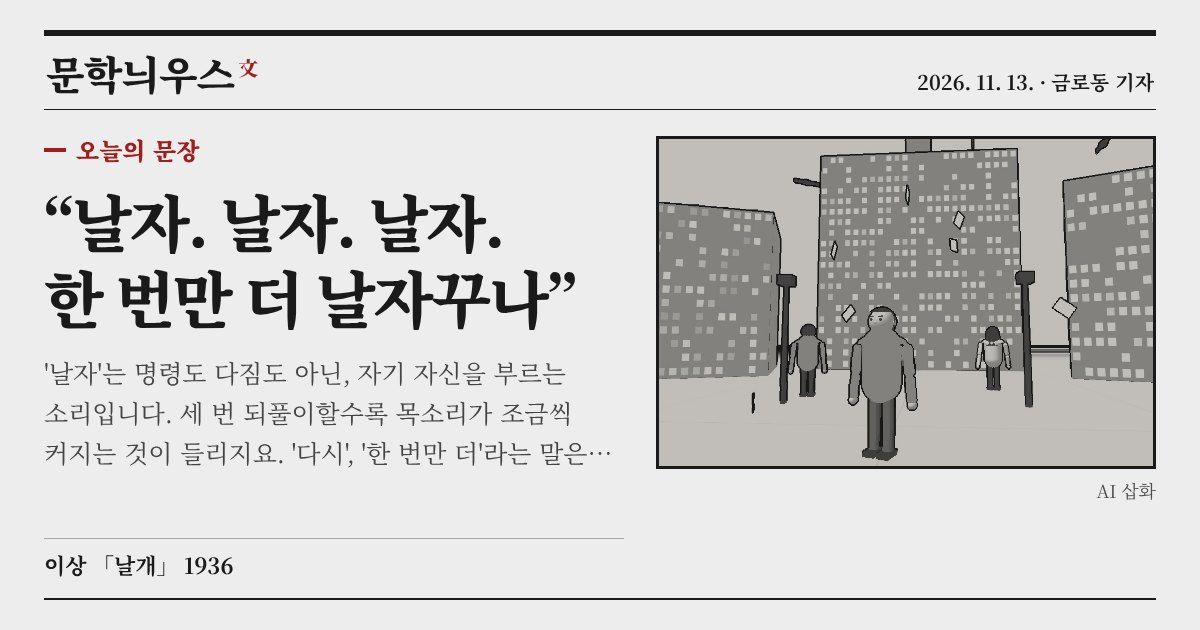
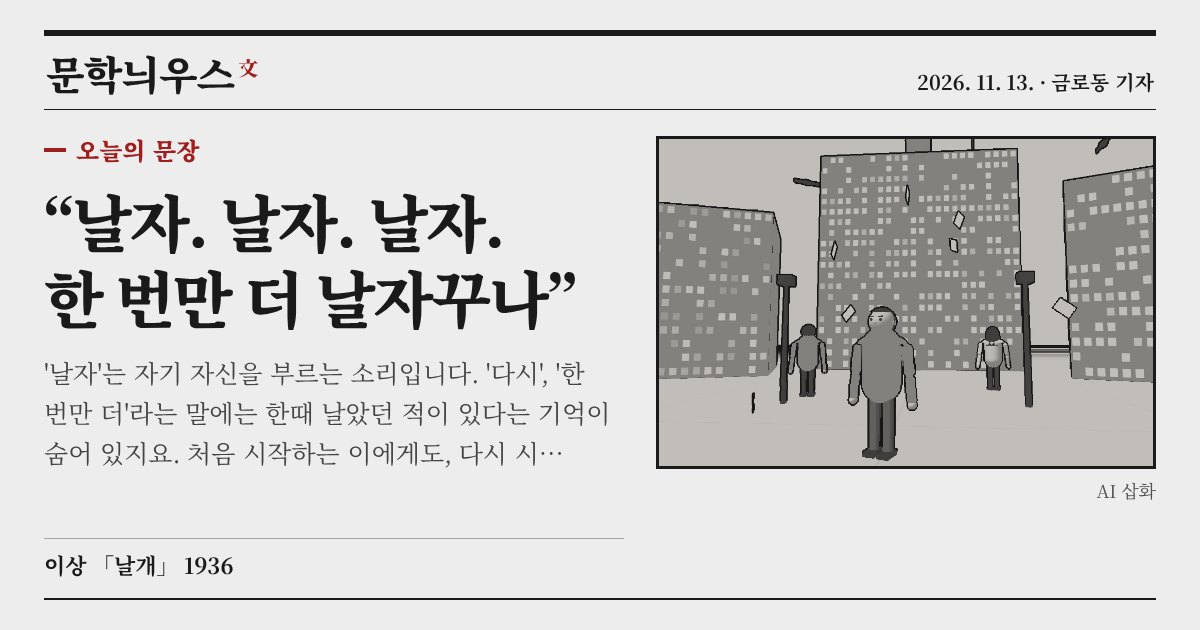
고전 1분 컷/5분 정주행 전환, 그날의 문학 코너 추가, 퍼즐·OX를 맨 끝으로, 설명 분량 압축(모바일 신문)
Claude-Session: https://claude.ai/code/session_01XJFm6U7FnmFUMAzUHFzLuG

Changed region(s): [[0.0308, 0.573, 0.5242, 0.754]]

diff --git a/s/2026-11-13-sentence.html b/s/2026-11-13-sentence.html
@@ -1,21 +1,21 @@
 <!doctype html>
 <html lang="ko"><head><meta charset="utf-8">
 <meta name="viewport" content="width=device-width,initial-scale=1">
-<meta name="share-sig" content="875346fddb">
+<meta name="share-sig" content="ff9bf6cbb0">
 <meta name="robots" content="noindex,follow">
 <title>“날개야 다시 돋아라. 날자. 날자. 날자. 한 번만 더 날자꾸나. 한 번만 더 날아 보자꾸나.” — 이상 「날개」 · 문학늬우스</title>
-<meta name="description" content="&#x27;날자&#x27;는 명령도 다짐도 아닌, 자기 자신을 부르는 소리입니다. 세 번 되풀이할수록 목소리가 조금씩 커지는 것이 들리지요. &#x27;다시&#x27;, &#x27;한 번만 더&#x27;라는 말은 이 사람이 한때 날았던 적이 있다는…">
+<meta name="description" content="&#x27;날자&#x27;는 자기 자신을 부르는 소리입니다. &#x27;다시&#x27;, &#x27;한 번만 더&#x27;라는 말에는 한때 날았던 적이 있다는 기억이 숨어 있지요. 처음 시작하는 이에게도, 다시 시작하는 이에게도 건넬 수 있는 응원이…">
 <meta property="og:type" content="article">
 <meta property="og:site_name" content="문학늬우스">
 <meta property="og:title" content="“날개야 다시 돋아라. 날자. 날자. 날자. 한 번만 더 날자꾸나. 한 번만 더 날아 보자꾸나.” — 이상 「날개」">
-<meta property="og:description" content="&#x27;날자&#x27;는 명령도 다짐도 아닌, 자기 자신을 부르는 소리입니다. 세 번 되풀이할수록 목소리가 조금씩 커지는 것이 들리지요. &#x27;다시&#x27;, &#x27;한 번만 더&#x27;라는 말은 이 사람이 한때 날았던 적이 있다는…">
+<meta property="og:description" content="&#x27;날자&#x27;는 자기 자신을 부르는 소리입니다. &#x27;다시&#x27;, &#x27;한 번만 더&#x27;라는 말에는 한때 날았던 적이 있다는 기억이 숨어 있지요. 처음 시작하는 이에게도, 다시 시작하는 이에게도 건넬 수 있는 응원이…">
 <meta property="og:url" content="https://mnews.jintar.co.kr/s/2026-11-13-sentence.html">
 <meta property="og:image" content="https://mnews.jintar.co.kr/s/2026-11-13-sentence.jpg">
 <meta property="og:image:width" content="1200"><meta property="og:image:height" content="630">
 <meta property="og:locale" content="ko_KR">
 <meta name="twitter:card" content="summary_large_image">
 <meta name="twitter:title" content="“날개야 다시 돋아라. 날자. 날자. 날자. 한 번만 더 날자꾸나. 한 번만 더 날아 보자꾸나.” — 이상 「날개」">
-<meta name="twitter:description" content="&#x27;날자&#x27;는 명령도 다짐도 아닌, 자기 자신을 부르는 소리입니다. 세 번 되풀이할수록 목소리가 조금씩 커지는 것이 들리지요. &#x27;다시&#x27;, &#x27;한 번만 더&#x27;라는 말은 이 사람이 한때 날았던 적이 있다는…">
+<meta name="twitter:description" content="&#x27;날자&#x27;는 자기 자신을 부르는 소리입니다. &#x27;다시&#x27;, &#x27;한 번만 더&#x27;라는 말에는 한때 날았던 적이 있다는 기억이 숨어 있지요. 처음 시작하는 이에게도, 다시 시작하는 이에게도 건넬 수 있는 응원이…">
 <meta name="twitter:image" content="https://mnews.jintar.co.kr/s/2026-11-13-sentence.jpg">
 <link rel="icon" href="../favicon.svg" type="image/svg+xml">
 <script>location.replace("../?d=2026-11-13#sentence")</script>

diff --git a/s/2026-11-13-novel.html b/s/2026-11-13-novel.html
@@ -1,21 +1,21 @@
 <!doctype html>
 <html lang="ko"><head><meta charset="utf-8">
 <meta name="viewport" content="width=device-width,initial-scale=1">
-<meta name="share-sig" content="89ff66dd63">
+<meta name="share-sig" content="22278bf7b2">
 <meta name="robots" content="noindex,follow">
 <title>오늘의 소설 구절 · F. 스콧 피츠제럴드 『위대한 개츠비』 · 문학늬우스</title>
-<meta name="description" content="“그렇게 우리는 노를 저어 나아간다. 물살을 거스르는 배처럼, 쉼 없이 과거로 떠밀려 가면서도.” 소설의 맨 마지막 문장입니다. 모든 일이 끝난 뒤, 이야기를 들려주던 닉 캐러웨이는 개츠비의 텅…">
+<meta name="description" content="“그렇게 우리는 노를 저어 나아간다. 물살을 거스르는 배처럼, 쉼 없이 과거로 떠밀려 가면서도.” 소설의 마지막 문장. 모든 일이 끝난 뒤 화자 닉은 개츠비의 빈 저택 앞에서, 그가 바라보던 데이…">
 <meta property="og:type" content="article">
 <meta property="og:site_name" content="문학늬우스">
 <meta property="og:title" content="오늘의 소설 구절 · F. 스콧 피츠제럴드 『위대한 개츠비』">
-<meta property="og:description" content="“그렇게 우리는 노를 저어 나아간다. 물살을 거스르는 배처럼, 쉼 없이 과거로 떠밀려 가면서도.” 소설의 맨 마지막 문장입니다. 모든 일이 끝난 뒤, 이야기를 들려주던 닉 캐러웨이는 개츠비의 텅…">
+<meta property="og:description" content="“그렇게 우리는 노를 저어 나아간다. 물살을 거스르는 배처럼, 쉼 없이 과거로 떠밀려 가면서도.” 소설의 마지막 문장. 모든 일이 끝난 뒤 화자 닉은 개츠비의 빈 저택 앞에서, 그가 바라보던 데이…">
 <meta property="og:url" content="https://mnews.jintar.co.kr/s/2026-11-13-novel.html">
 <meta property="og:image" content="https://mnews.jintar.co.kr/s/2026-11-13-novel.jpg">
 <meta property="og:image:width" content="1200"><meta property="og:image:height" content="630">
 <meta property="og:locale" content="ko_KR">
 <meta name="twitter:card" content="summary_large_image">
 <meta name="twitter:title" content="오늘의 소설 구절 · F. 스콧 피츠제럴드 『위대한 개츠비』">
-<meta name="twitter:description" content="“그렇게 우리는 노를 저어 나아간다. 물살을 거스르는 배처럼, 쉼 없이 과거로 떠밀려 가면서도.” 소설의 맨 마지막 문장입니다. 모든 일이 끝난 뒤, 이야기를 들려주던 닉 캐러웨이는 개츠비의 텅…">
+<meta name="twitter:description" content="“그렇게 우리는 노를 저어 나아간다. 물살을 거스르는 배처럼, 쉼 없이 과거로 떠밀려 가면서도.” 소설의 마지막 문장. 모든 일이 끝난 뒤 화자 닉은 개츠비의 빈 저택 앞에서, 그가 바라보던 데이…">
 <meta name="twitter:image" content="https://mnews.jintar.co.kr/s/2026-11-13-novel.jpg">
 <link rel="icon" href="../favicon.svg" type="image/svg+xml">
 <script>location.replace("../?d=2026-11-13#novel")</script>

diff --git a/s/2026-11-13-classic.html b/s/2026-11-13-classic.html
@@ -1,21 +1,21 @@
 <!doctype html>
 <html lang="ko"><head><meta charset="utf-8">
 <meta name="viewport" content="width=device-width,initial-scale=1">
-<meta name="share-sig" content="16af5f1c99">
+<meta name="share-sig" content="3598e4f7fe">
 <meta name="robots" content="noindex,follow">
 <title>1분 고전 · 김유정 「봄·봄」 · 문학늬우스</title>
-<meta name="description" content="장가보내 준다는 말만 믿고 3년 7개월째 일만 하는 데릴사위와, 딸 키 핑계로 혼례를 미루는 장인의 밀고 당기기. 어느 산골 마을, &#x27;나&#x27;는 점순이와 혼인시켜 준다는 약속을 믿고 그 집에 데릴사위…">
+<meta name="description" content="장가보내 준다는 말만 믿고 3년 7개월째 일만 하는 데릴사위와, 딸 키 핑계로 혼례를 미루는 장인의 밀고 당기기. &#x27;나&#x27;는 점순이와 혼인시켜 준다는 말만 믿고 데릴사위로 들어가 3년 7개월째 품삯…">
 <meta property="og:type" content="article">
 <meta property="og:site_name" content="문학늬우스">
 <meta property="og:title" content="1분 고전 · 김유정 「봄·봄」">
-<meta property="og:description" content="장가보내 준다는 말만 믿고 3년 7개월째 일만 하는 데릴사위와, 딸 키 핑계로 혼례를 미루는 장인의 밀고 당기기. 어느 산골 마을, &#x27;나&#x27;는 점순이와 혼인시켜 준다는 약속을 믿고 그 집에 데릴사위…">
+<meta property="og:description" content="장가보내 준다는 말만 믿고 3년 7개월째 일만 하는 데릴사위와, 딸 키 핑계로 혼례를 미루는 장인의 밀고 당기기. &#x27;나&#x27;는 점순이와 혼인시켜 준다는 말만 믿고 데릴사위로 들어가 3년 7개월째 품삯…">
 <meta property="og:url" content="https://mnews.jintar.co.kr/s/2026-11-13-classic.html">
 <meta property="og:image" content="https://mnews.jintar.co.kr/s/2026-11-13-classic.jpg">
 <meta property="og:image:width" content="1200"><meta property="og:image:height" content="630">
 <meta property="og:locale" content="ko_KR">
 <meta name="twitter:card" content="summary_large_image">
 <meta name="twitter:title" content="1분 고전 · 김유정 「봄·봄」">
-<meta name="twitter:description" content="장가보내 준다는 말만 믿고 3년 7개월째 일만 하는 데릴사위와, 딸 키 핑계로 혼례를 미루는 장인의 밀고 당기기. 어느 산골 마을, &#x27;나&#x27;는 점순이와 혼인시켜 준다는 약속을 믿고 그 집에 데릴사위…">
+<meta name="twitter:description" content="장가보내 준다는 말만 믿고 3년 7개월째 일만 하는 데릴사위와, 딸 키 핑계로 혼례를 미루는 장인의 밀고 당기기. &#x27;나&#x27;는 점순이와 혼인시켜 준다는 말만 믿고 데릴사위로 들어가 3년 7개월째 품삯…">
 <meta name="twitter:image" content="https://mnews.jintar.co.kr/s/2026-11-13-classic.jpg">
 <link rel="icon" href="../favicon.svg" type="image/svg+xml">
 <script>location.replace("../?d=2026-11-13#classic")</script>

diff --git a/s/2026-11-13-poem.html b/s/2026-11-13-poem.html
@@ -1,21 +1,21 @@
 <!doctype html>
 <html lang="ko"><head><meta charset="utf-8">
 <meta name="viewport" content="width=device-width,initial-scale=1">
-<meta name="share-sig" content="1878772467">
+<meta name="share-sig" content="1f0f7ae394">
 <meta name="robots" content="noindex,follow">
 <title>오늘의 시 · 윤한로 「분교마을의 봄」 · 문학늬우스</title>
-<meta name="description" content="1981년 조선일보 신춘문예 당선작(동시) 시는 산골 분교 마을에 봄이 드는 풍경을 아주 짧은 줄로 하나씩 짚어 갑니다. 바람은 산 너머 멀리 있는 언니가 체로 곱게 걸러 보내 준 것이라고 하지요…">
+<meta name="description" content="1981년 조선일보 신춘문예 당선작(동시) 봄을 &#x27;산 너머 언니가 체로 쳐 보낸 바람&#x27;으로 불러들이고, &#x27;어디엔 무슨 봄&#x27;이라는 같은 틀로 노란 봄, 붉은 봄, 뻐꾹 봄을 짚어 갑니다. 그러다 튼…">
 <meta property="og:type" content="article">
 <meta property="og:site_name" content="문학늬우스">
 <meta property="og:title" content="오늘의 시 · 윤한로 「분교마을의 봄」">
-<meta property="og:description" content="1981년 조선일보 신춘문예 당선작(동시) 시는 산골 분교 마을에 봄이 드는 풍경을 아주 짧은 줄로 하나씩 짚어 갑니다. 바람은 산 너머 멀리 있는 언니가 체로 곱게 걸러 보내 준 것이라고 하지요…">
+<meta property="og:description" content="1981년 조선일보 신춘문예 당선작(동시) 봄을 &#x27;산 너머 언니가 체로 쳐 보낸 바람&#x27;으로 불러들이고, &#x27;어디엔 무슨 봄&#x27;이라는 같은 틀로 노란 봄, 붉은 봄, 뻐꾹 봄을 짚어 갑니다. 그러다 튼…">
 <meta property="og:url" content="https://mnews.jintar.co.kr/s/2026-11-13-poem.html">
 <meta property="og:image" content="https://mnews.jintar.co.kr/s/2026-11-13-poem.jpg">
 <meta property="og:image:width" content="1200"><meta property="og:image:height" content="630">
 <meta property="og:locale" content="ko_KR">
 <meta name="twitter:card" content="summary_large_image">
 <meta name="twitter:title" content="오늘의 시 · 윤한로 「분교마을의 봄」">
-<meta name="twitter:description" content="1981년 조선일보 신춘문예 당선작(동시) 시는 산골 분교 마을에 봄이 드는 풍경을 아주 짧은 줄로 하나씩 짚어 갑니다. 바람은 산 너머 멀리 있는 언니가 체로 곱게 걸러 보내 준 것이라고 하지요…">
+<meta name="twitter:description" content="1981년 조선일보 신춘문예 당선작(동시) 봄을 &#x27;산 너머 언니가 체로 쳐 보낸 바람&#x27;으로 불러들이고, &#x27;어디엔 무슨 봄&#x27;이라는 같은 틀로 노란 봄, 붉은 봄, 뻐꾹 봄을 짚어 갑니다. 그러다 튼…">
 <meta name="twitter:image" content="https://mnews.jintar.co.kr/s/2026-11-13-poem.jpg">
 <link rel="icon" href="../favicon.svg" type="image/svg+xml">
 <script>location.replace("../?d=2026-11-13#poem")</script>

diff --git a/s/2026-11-13-writer.html b/s/2026-11-13-writer.html
@@ -1,21 +1,21 @@
 <!doctype html>
 <html lang="ko"><head><meta charset="utf-8">
 <meta name="viewport" content="width=device-width,initial-scale=1">
-<meta name="share-sig" content="a428988748">
+<meta name="share-sig" content="f35d68b3af">
 <meta name="robots" content="noindex,follow">
 <title>오늘의 문인 · 이상 (1910–1937) · 문학늬우스</title>
-<meta name="description" content="1910년 서울에서 태어났습니다. 경성고등공업학교 건축과를 졸업하고 조선총독부 건축 기수로 일한 건축가 출신이라, 숫자와 도면 같은 시를 썼습니다. 1934년 『조선중앙일보』에 연작시 「오감도」를…">
+<meta name="description" content="1910년 서울 출생. 건축 기사 출신으로 숫자와 도면 같은 시를 썼고, 1934년 연작시 「오감도」는 독자 항의로 연재가 중단됐습니다. 1936년 「날개」로 문단을 뒤흔든 뒤 도쿄로 건너갔다가,…">
 <meta property="og:type" content="article">
 <meta property="og:site_name" content="문학늬우스">
 <meta property="og:title" content="오늘의 문인 · 이상 (1910–1937)">
-<meta property="og:description" content="1910년 서울에서 태어났습니다. 경성고등공업학교 건축과를 졸업하고 조선총독부 건축 기수로 일한 건축가 출신이라, 숫자와 도면 같은 시를 썼습니다. 1934년 『조선중앙일보』에 연작시 「오감도」를…">
+<meta property="og:description" content="1910년 서울 출생. 건축 기사 출신으로 숫자와 도면 같은 시를 썼고, 1934년 연작시 「오감도」는 독자 항의로 연재가 중단됐습니다. 1936년 「날개」로 문단을 뒤흔든 뒤 도쿄로 건너갔다가,…">
 <meta property="og:url" content="https://mnews.jintar.co.kr/s/2026-11-13-writer.html">
 <meta property="og:image" content="https://mnews.jintar.co.kr/s/2026-11-13-writer.jpg">
 <meta property="og:image:width" content="1200"><meta property="og:image:height" content="630">
 <meta property="og:locale" content="ko_KR">
 <meta name="twitter:card" content="summary_large_image">
 <meta name="twitter:title" content="오늘의 문인 · 이상 (1910–1937)">
-<meta name="twitter:description" content="1910년 서울에서 태어났습니다. 경성고등공업학교 건축과를 졸업하고 조선총독부 건축 기수로 일한 건축가 출신이라, 숫자와 도면 같은 시를 썼습니다. 1934년 『조선중앙일보』에 연작시 「오감도」를…">
+<meta name="twitter:description" content="1910년 서울 출생. 건축 기사 출신으로 숫자와 도면 같은 시를 썼고, 1934년 연작시 「오감도」는 독자 항의로 연재가 중단됐습니다. 1936년 「날개」로 문단을 뒤흔든 뒤 도쿄로 건너갔다가,…">
 <meta name="twitter:image" content="https://mnews.jintar.co.kr/s/2026-11-13-writer.jpg">
 <link rel="icon" href="../favicon.svg" type="image/svg+xml">
 <script>location.replace("../?d=2026-11-13#writer")</script>

diff --git a/s/2026-11-13-day.html b/s/2026-11-13-day.html
@@ -1,0 +1,23 @@
+<!doctype html>
+<html lang="ko"><head><meta charset="utf-8">
+<meta name="viewport" content="width=device-width,initial-scale=1">
+<meta name="share-sig" content="de0722169b">
+<meta name="robots" content="noindex,follow">
+<title>그날의 문학 · 11월 13일 — 『보물섬』의 스티븐슨이 태어나다 — 그리고 이 생일을 남에게 줘 버리다 · 문학늬우스</title>
+<meta name="description" content="1850 『보물섬』의 스티븐슨이 태어나다 — 그리고 이 생일을 남에게 줘 버리다 / 1970 전태일의 그날, 그리고 13년 뒤 한 권의 평전 / 1907 영국 시인 둘이 같은 날 눈을 감다">
+<meta property="og:type" content="article">
+<meta property="og:site_name" content="문학늬우스">
+<meta property="og:title" content="그날의 문학 · 11월 13일 — 『보물섬』의 스티븐슨이 태어나다 — 그리고 이 생일을 남에게 줘 버리다">
+<meta property="og:description" content="1850 『보물섬』의 스티븐슨이 태어나다 — 그리고 이 생일을 남에게 줘 버리다 / 1970 전태일의 그날, 그리고 13년 뒤 한 권의 평전 / 1907 영국 시인 둘이 같은 날 눈을 감다">
+<meta property="og:url" content="https://mnews.jintar.co.kr/s/2026-11-13-day.html">
+<meta property="og:image" content="https://mnews.jintar.co.kr/s/2026-11-13-day.jpg">
+<meta property="og:image:width" content="1200"><meta property="og:image:height" content="630">
+<meta property="og:locale" content="ko_KR">
+<meta name="twitter:card" content="summary_large_image">
+<meta name="twitter:title" content="그날의 문학 · 11월 13일 — 『보물섬』의 스티븐슨이 태어나다 — 그리고 이 생일을 남에게 줘 버리다">
+<meta name="twitter:description" content="1850 『보물섬』의 스티븐슨이 태어나다 — 그리고 이 생일을 남에게 줘 버리다 / 1970 전태일의 그날, 그리고 13년 뒤 한 권의 평전 / 1907 영국 시인 둘이 같은 날 눈을 감다">
+<meta name="twitter:image" content="https://mnews.jintar.co.kr/s/2026-11-13-day.jpg">
+<link rel="icon" href="../favicon.svg" type="image/svg+xml">
+<script>location.replace("../?d=2026-11-13#day")</script>
+<style>body{font-family:"Noto Serif KR",serif;background:#EDEDED;color:#1A1A1A;margin:0;display:grid;place-items:center;min-height:100vh;text-align:center;padding:24px}a{color:inherit}</style>
+</head><body><p><b>문학늬우스</b><br>그날의 문학 · 11월 13일 — 『보물섬』의 스티븐슨이 태어나다 — 그리고 이 생일을 남에게 줘 버리다<br><br><a href="../?d=2026-11-13#day">지면에서 보기 →</a></p></body></html>

diff --git a/scripts/make_share.py b/scripts/make_share.py
@@ -9,8 +9,8 @@ import hashlib, html, json, os, re, sys, glob
 
 SITE = "https://mnews.jintar.co.kr/"
 OUT = "s"
-SECS = ["sentence", "poem", "novel", "writer", "puzzle", "trivia", "classic", "rx"]
-NAME = {"sentence": "오늘의 문장", "poem": "오늘의 시", "novel": "오늘의 소설 구절", "writer": "오늘의 문인", "puzzle": "낱말 퍼즐", "trivia": "문학 상식 OX", "classic": "1분 고전", "rx": "기분 처방전"}
+SECS = ["sentence", "poem", "novel", "writer", "puzzle", "trivia", "classic", "rx", "day"]
+NAME = {"sentence": "오늘의 문장", "poem": "오늘의 시", "novel": "오늘의 소설 구절", "writer": "오늘의 문인", "puzzle": "낱말 퍼즐", "trivia": "문학 상식 OX", "classic": "1분 고전", "rx": "기분 처방전", "day": "그날의 문학"}
 
 
 def esc(x):
@@ -58,7 +58,12 @@ def content(D, sec):
     if sec == "classic":
         C = D["classic"]
         return (f"1분 고전 · {C['writer']} 「{C['title']}」", clip(C.get("oneline", "") + " " + " ".join(C.get("story") or C.get("lines", [])), 110),
-                f"「{esc(C['title'])}」", esc(clip(C.get("oneline"), 80)), None, f"{esc(C['writer'])} · {C['year']} · 1분이면 읽는 줄거리")
+                f"「{esc(C['title'])}」", esc(clip(C.get("oneline"), 80)), None, f"{esc(C['writer'])} · {C['year']} · 1분 컷 · 5분 정주행")
+    if sec == "day":
+        Y = D.get("onthisday") or []
+        m, dd = D["date"][5:].split("-")
+        return (f"그날의 문학 · {int(m)}월 {int(dd)}일 — {clip(Y[0]['title'], 40)}" if Y else "그날의 문학", " / ".join(y["year"] + " " + y["title"] for y in Y)[:110],
+                f"{int(m)}월 {int(dd)}일,<br>그해에는", esc(clip(Y[0]["year"] + " · " + Y[0]["title"], 80)) if Y else "", None, " · ".join(y["year"] for y in Y))
     if sec == "rx":
         return ("기분 처방전 · 오늘 기분에 맞는 문장 한 알", "지쳤어요·울적해요·불안해요·화나요·설레요·멍해요 — 기분을 고르면 금로동 약사가 문장 한 알을 지어 드립니다.",
                 "오늘 기분에<br>문장 한 알", "기분을 고르면 출처가 분명한 문장을 처방해 드려요.", None, "문학 약국 · 금로동 약사")
@@ -128,7 +133,7 @@ def main(dates):
         if dates and d not in dates:
             continue
         for sec in SECS:
-            if sec != "rx" and not D.get(sec):
+            if sec != "rx" and not D.get({"day": "onthisday"}.get(sec, sec)):
                 continue
             title, desc, head, lede, img, tail = content(D, sec)
             key = f"{d}-{sec}"
@@ -150,9 +155,9 @@ def main(dates):
             elif sec == "trivia":
                 right = '<div class="r" style="width:330px;display:flex;gap:22px;top:150px"><b style="width:150px;height:150px;border:5px solid #1A1A1A;display:grid;place-items:center;font-size:110px;font-weight:900;line-height:1">O</b><b style="width:150px;height:150px;border:5px solid #1A1A1A;display:grid;place-items:center;font-size:110px;font-weight:900;line-height:1;background:#1A1A1A;color:#EDEDED">X</b></div>'
                 lw = 740
-            elif sec in ("rx", "classic"):
-                lbl = "文學<br>藥局" if sec == "rx" else "1分<br>古典"
-                right = f'<div class="r" style="width:300px;top:120px"><div style="width:280px;height:330px;margin-left:auto;background:#f9f8f3;border:3px solid #1A1A1A;box-shadow:10px 10px 0 #1A1A1A;position:relative;padding:22px"><div style="font-size:30px;font-weight:900;border-bottom:4px double #1A1A1A;padding-bottom:8px">{"문학 약국" if sec=="rx" else "1분 고전"}</div><div style="font-size:18px;color:#A01E1E;font-weight:700;margin-top:10px">{"처방전 · 內服藥" if sec=="rx" else "1분이면 읽는 줄거리"}</div><div style="position:absolute;right:24px;bottom:28px;width:110px;height:110px;border:5px solid #A01E1E;border-radius:50%;color:#A01E1E;font-size:26px;font-weight:900;line-height:1.15;display:grid;place-items:center;text-align:center;transform:rotate(-14deg)">{lbl}</div></div></div>'
+            elif sec in ("rx", "classic", "day"):
+                lbl = {"rx": "文學<br>藥局", "classic": "1分<br>古典", "day": "今日<br>文學"}[sec]
+                right = f'<div class="r" style="width:300px;top:120px"><div style="width:280px;height:330px;margin-left:auto;background:#f9f8f3;border:3px solid #1A1A1A;box-shadow:10px 10px 0 #1A1A1A;position:relative;padding:22px"><div style="font-size:30px;font-weight:900;border-bottom:4px double #1A1A1A;padding-bottom:8px">{ {"rx":"문학 약국","classic":"1분 고전","day":"그날의 문학"}[sec] }</div><div style="font-size:18px;color:#A01E1E;font-weight:700;margin-top:10px">{ {"rx":"처방전 · 內服藥","classic":"1분 컷 · 5분 정주행","day":"오늘 날짜의 문학사"}[sec] }</div><div style="position:absolute;right:24px;bottom:28px;width:110px;height:110px;border:5px solid #A01E1E;border-radius:50%;color:#A01E1E;font-size:26px;font-weight:900;line-height:1.15;display:grid;place-items:center;text-align:center;transform:rotate(-14deg)">{lbl}</div></div></div>'
                 lw = 760
             elif img and os.path.exists(img):
                 wr = sec == "writer"

diff --git a/docs/PROMPT.md b/docs/PROMPT.md
@@ -63,7 +63,7 @@ m3d/README.md 방식: three.js 장면 → 먹 농담 후처리(망점 쓰지 않
 1. 오늘 날짜(TZ=Asia/Seoul). archive/ 최근 30일을 읽고 이미 쓴 작가·작품·문장은 다시 쓰지 않습니다. 국내 7 : 국외 3 비율을 이번 주 기준으로 맞춥니다.
 2. 고르기: 오늘의 문장 1, 시 1(전문 게재라 저작권 만료 시만), 소설 구절 1, 문인 1(셋 중 한 작품의 작가가 자연스러움), 문학 상식 3.
 3. 사실 확인: WebSearch로 작품·발표 연도·장면·인용 원문을 확인하고, 확인한 출처 URL을 sources에 남깁니다. 확인 안 되는 인용은 쓰지 않습니다. 저작권이 살아 있는 작품은 한두 문장만 인용하고, 국외 작품은 직접 번역해 "금로동 옮김"으로 적습니다.
-4. 원고: DATA-FORMAT.md대로 today.json을 씁니다. 분량은 오늘의 문장 해설 300~450자, 시·소설 분석 각 350~500자, 문인 250~350자.
+4. 원고: DATA-FORMAT.md대로 today.json을 씁니다. 모바일 신문이라 짧고 다양하게: 오늘의 문장 해설 세 칸(meaning·context·craft) 각 80~130자, 시·소설 분석 각 150~250자, 문인 bio 120~180자, 고전 why 80~120자·ending 150~200자. 1분 고전(classic.story) 1문단 250~350자 + 같은 줄거리의 5분 버전(classic.story_long) 6~8문단 1,500~2,000자. 그날의 문학(onthisday) 오늘 날짜에 있었던 문학 사건 2~3개, 각 body 60~120자 + sources(WebSearch로 날짜 확인한 것만).
 5. 낱말 퍼즐: 오늘 작품·문인·문학 용어 50~70개로 python scripts/make_puzzle.py를 돌려 puzzle 칸을 채웁니다(정답 단어는 2~5음절 한글).
 6. 삽화: 시와 소설 장면을 m3d/scenes/<날짜>-poem.js와 <날짜>-novel.js로 만듭니다. 정지 컷 3장(--still 0.4, 1.4, 2.4)을 Read로 직접 보고 몸짓이 보이는지, 글자·얼굴 세부가 없는지, 어지러운 반복 무늬가 없는지 검수한 뒤 본 렌더 → img/<날짜>-poem.mp4와 .jpg. 문인 초상은 실루엣 펜화 정지 그림 하나(SVG를 PNG로)로 둡니다.
 7. 오늘 호를 archive/<날짜>.json에도 복사하고, archive/index.json 목록을 갱신합니다. commit 후 push합니다.

diff --git a/DATA-FORMAT.md b/DATA-FORMAT.md
@@ -65,3 +65,9 @@
 - `img`와 `video`가 같이 있으면 web/vidup.js가 그 자리의 그림을 반복 영상으로 바꿉니다. 영상 포스터는 같은 이름의 .jpg입니다.
 - `public_domain`이 false인 시는 `lines`에 전문을 넣지 않습니다. 그런 날은 시를 다른 작품으로 바꿉니다.
 - `archive/index.json`은 `[{"date","no","sentence","writer"}]` 목록이며 '지난 호' 메뉴에 씁니다.
+
+
+## 추가 필드 (2026-11-13)
+- `poem.permission` / `poem.text_file`: 저작권자 허락을 받은 시. 전문은 발행인이 직접 `poems/<날짜>.txt`에 붙여 넣고, 페이지가 읽어 연 단위로 보여 줍니다(기자는 전문을 옮겨 적지 않음).
+- `classic.story`: 1분 컷(1문단). `classic.story_long`: 같은 줄거리의 5분 정주행(여러 문단). 결말은 둘 다 `classic.ending`(스포일러 접기).
+- `onthisday`: [{year, title, body, sources[]}] — 「그날의 문학」, 오늘 날짜의 과거 문학 사건 2~3개.
